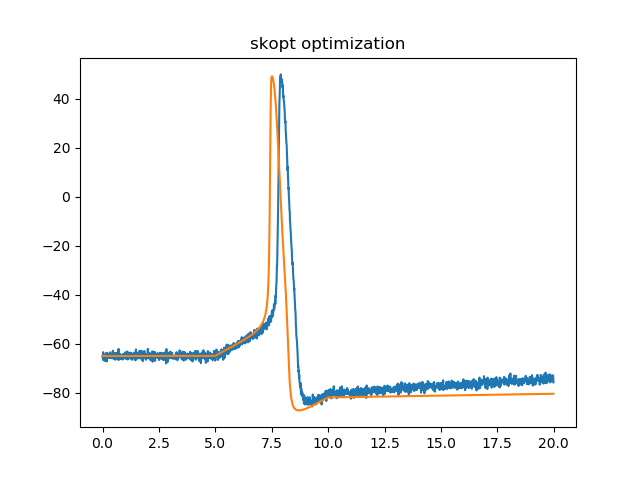
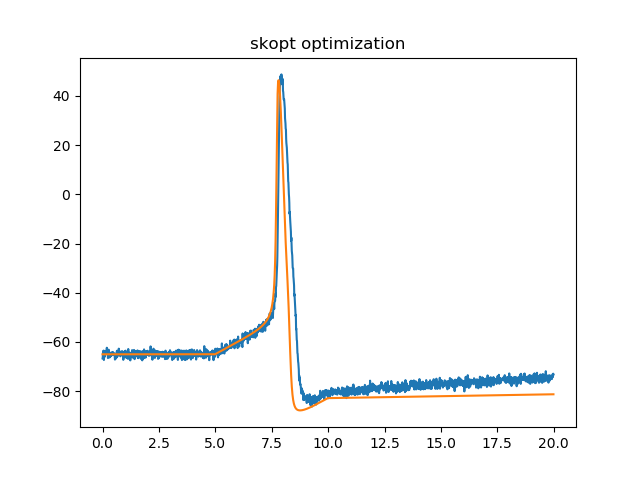
kwds optimizer, n_rounds added to fit_traces_asktell

diff --git a/brian2tools/modelfitting/modelfitting_asktell.py b/brian2tools/modelfitting/modelfitting_asktell.py
@@ -1,28 +1,29 @@
-from numpy import mean, ones, array, shape, where
+from numpy import mean, ones, array, where
 from brian2.equations.equations import (DIFFERENTIAL_EQUATION, Equations,
                                         SingleEquation, PARAMETER)
 from brian2.input import TimedArray
-from brian2 import NeuronGroup, StateMonitor, store, restore, run, defaultclock, second, Quantity
+from brian2 import NeuronGroup, store, restore, run, defaultclock, second
 from brian2.stateupdaters.base import StateUpdateMethod
 
 
-__all__=['fit_traces_ask_tell']
+__all__ = ['fit_traces_ask_tell']
 
 
 def fit_traces_ask_tell(model=None,
-               input_var=None,
-               input = None,
-               output_var = None,
-               output = None,
-               dt = None,
-               maxiter = None,
-               t_start = 0*second,
-               method = ('linear', 'exponential_euler', 'euler'),
-               optimizer=None,
-               method_opt='DE',
-               n_samples=10,
-               n_rounds=1,
-               **params):
+                        input_var=None,
+                        input=None,
+                        output_var=None,
+                        output=None,
+                        dt=None,
+                        maxiter=None,
+                        t_start=0*second,
+                        method=('linear', 'exponential_euler', 'euler'),
+                        optimizer=None,
+                        method_opt='DE',
+                        n_samples=10,
+                        n_rounds=1,
+                        kwds_opt={},
+                        **params):
     '''
     Creates an interface for evaluation of parameters drawn by evolutionary
     algorithms (throough ask/tell interfaces).
@@ -56,43 +57,41 @@ def fit_traces_ask_tell(model=None,
 
     TODO:
         -tolerance
-        -maximum populationte
+
     Returns
     -------
     Errors array for each set of parameters (RMS).
     '''
 
-
     parameter_names = model.parameter_names
 
     for param in params.keys():
         if (param not in model.parameter_names):
-            raise Exception("Parameter %s must be defined as a parameter in the model" % param)
+            raise Exception("Parameter %s must be defined as a parameter in \
+                             the model" % param)
     for param in model.parameter_names:
         if (param not in params):
             raise Exception("Bounds must be set for parameter %s" % param)
 
     bounds = []
     for name in parameter_names:
-        bounds.append(params[name])# Check parameter names
+        bounds.append(params[name])     # Check parameter name
 
     # dt must be set
     if dt is None:
         raise Exception('dt (sampling frequency of the input) must be set')
     defaultclock.dt = dt
 
-
     # Check input variable
     if input_var not in model.identifiers:
         raise Exception("%s is not an identifier in the model" % input_var)
 
     Nsteps, Ntraces = input.shape
-    # Ntraces, Nsteps = input.shape
     duration = Nsteps*dt
     # Check output variable
     if output_var not in model.names:
         raise Exception("%s is not a model variable" % output_var)
-    if output.shape!=input.shape:
+    if output.shape != input.shape:
         raise Exception("Input and output must have the same size")
 
     # This only works because the equations are completely self-contained
@@ -113,10 +112,11 @@ def fit_traces_ask_tell(model=None,
     # Replace input variable by TimedArray
     input_traces = TimedArray(input, dt = dt)
     input_unit = input.dim
-    model = model + Equations(input_var + '= input_var(t,i % Ntraces) : '+ "% s" % repr(input_unit))
+    model = model + Equations(input_var + '= input_var(t,i % Ntraces) :\
+                              '+ "% s" % repr(input_unit))
 
     # Add criterion with TimedArray
-    output_traces = TimedArray(output, dt = dt)
+    output_traces = TimedArray(output, dt=dt)
     error_unit = output.dim**2
     model = model + Equations('total_error : %s' % repr(error_unit))
 
@@ -125,7 +125,7 @@ def fit_traces_ask_tell(model=None,
 
     popsize = n_samples
 
-    neurons = NeuronGroup(Ntraces * popsize, model, method = method)
+    neurons = NeuronGroup(Ntraces * popsize, model, method=method)
     neurons.namespace['input_var'] = input_traces
     neurons.namespace['output_var'] = output_traces
     neurons.namespace['t_start'] = t_start
@@ -150,30 +150,35 @@ def fit_traces_ask_tell(model=None,
 
         restore()
         neurons.set_states(d, units=False)
-        run(duration, namespace = {})
+        run(duration, namespace={})
 
         err = neurons.total_error/int((duration-t_start)/defaultclock.dt)
-        err = mean(err.reshape((popsize, Ntraces)),axis=1)
+        err = mean(err.reshape((popsize, Ntraces)), axis=1)
 
         return array(err)
 
     # set up the optimizer and get recommendation
-    optim = optimizer(method=method_opt, parameter_names=parameter_names, bounds=bounds)
+    optim = optimizer(method=method_opt, parameter_names=parameter_names,
+                      bounds=bounds, **kwds_opt)
 
-    # TODO: for _ in n_rounds
-    parameters = optim.ask(n_samples=n_samples)
+    for _ in range(n_rounds):
+        parameters = optim.ask(n_samples=n_samples)
+        errors = calc_error(parameters)
+        optim.tell(parameters, errors)
+        res = optim.recommend()
 
-    errors = calc_error(parameters)
-    optim.tell(parameters, errors)
-    res = optim.recommend()
 
-    # create output variables
-    resdict = dict()
-    for name, value in zip(parameter_names, res):
-        resdict[name] = value
+        # create output variables
+        resdict = dict()
+        for name, value in zip(parameter_names, res):
+            resdict[name] = value
 
-    index_param = where(array(parameters) == array(res))
-    ii = index_param[0]
-    error = errors[ii][0]
+        index_param = where(array(parameters) == array(res))
+
+        ii = index_param[0]
+        error = errors[ii][0]
+
+        # TODO: add feedback and tolerance
+        # print(resdict, error)
 
     return resdict, error

diff --git a/brian2tools/modelfitting/optimizer.py b/brian2tools/modelfitting/optimizer.py
@@ -48,9 +48,15 @@ class NevergradOptimizer(Optimizer):
     method : (str), optional
         The optimization method. By default differential evolution, can be
         chosen from any method in Nevergrad registry
+
+    TODO:
+    budget: int/None
+        number of allowed evaluations
+    num_workers: int
+        number of evaluations which will be run in parallel at once
     """
 
-    def __init__(self,  parameter_names, bounds, method='DE'):
+    def __init__(self,  parameter_names, bounds, method='DE', popsize=30, budget=300, **kwds):
         super(Optimizer, self).__init__()
 
         if not (len(parameter_names) == shape(bounds)[0]):
@@ -61,7 +67,6 @@ class NevergradOptimizer(Optimizer):
         if method not in list(registry.keys()):
             raise AssertionError("Unknown to Nevergrad optimization method:"+ method)
 
-
         instruments = []
         for i, name in enumerate(parameter_names):
             vars()[name] = inst.var.Array(1).bounded(*bounds[i]).asscalar()
@@ -69,7 +74,10 @@ class NevergradOptimizer(Optimizer):
 
         self.instrum = inst.Instrumentation(*instruments)
         self.optim = optimizerlib.registry[method](instrumentation=self.instrum,
-                                                   budget=10000)
+                                                   budget=budget, **kwds)
+
+
+        self.optim._llambda = popsize  # TODO: more elegant way
 
     def ask(self, n_samples):
         self.candidates, parameters = [], []
@@ -108,8 +116,12 @@ class SkoptOptimizer(Optimizer):
     method : (str), optional
         The optimization method. Possibilities: "GP", "RF", "ET", "GBRT" or
         sklearn regressor, default="GP"
+
+    TODO:
+    n_calls [int, default=100]:
+        Number of calls to `func`.
     """
-    def __init__(self,  parameter_names, bounds, method='GP'):
+    def __init__(self,  parameter_names, bounds, method='GP', **kwds):
         super(Optimizer, self).__init__()
 
         if not (len(parameter_names) == shape(bounds)[0]):
@@ -131,7 +143,8 @@ class SkoptOptimizer(Optimizer):
         self.optim = skoptOptimizer(
             dimensions=instruments,
             random_state=1,
-            base_estimator=method
+            base_estimator=method,
+            **kwds
         )
 
     def ask(self, n_samples):

diff --git a/brian2tools/tests/test_modelfitting_asktell.py b/brian2tools/tests/test_modelfitting_asktell.py
@@ -1,0 +1,35 @@
+'''
+Test the modelfitting module
+'''
+from brian2 import zeros, Equations
+from brian2 import nS, mV, volt, ms
+from brian2tools import fit_traces_ask_tell, NevergradOptimizer, SkoptOptimizer
+
+
+def test_import():
+    fit_traces_ask_tell
+
+def test_fit_traces():
+    # Create voltage traces for an activation experiment
+    input_traces = zeros((10,5))*volt
+    for i in range(5):
+        input_traces[5:,i]=i*10*mV
+
+    # Create target current traces
+    output_traces = 10*nS*input_traces
+    model = Equations('''
+    I = g*(v-E) : amp
+    g : siemens (constant)
+    E : volt (constant)
+    ''')
+    res, error = fit_traces_ask_tell(model=model, input_var='v', output_var='I',
+                                    input=input_traces, output=output_traces, dt=0.1*ms,
+                                    g=[1*nS, 30*nS], E=[-20*mV,100*mV],
+                                    optimizer=NevergradOptimizer, method_opt='DE')
+
+    res, error = fit_traces_ask_tell(model=model, input_var='v', output_var='I',
+                                    input=input_traces, output=output_traces, dt=0.1*ms,
+                                    g=[1*nS, 30*nS], E=[-20*mV,100*mV],
+                                    optimizer=SkoptOptimizer, method_opt='gp')
+
+# TODO: test different methods, test **kwds

diff --git a/examples/hh_nevergrad.py b/examples/hh_nevergrad.py
@@ -1,6 +1,7 @@
 from brian2 import *
 from brian2tools import *
 
+
 prefs.codegen.target = 'cython'  # weave is not multiprocess-safe!
 
 # Parameters
@@ -68,13 +69,16 @@ gl   : siemens (constant)
 Cm=1*ufarad*cm**-2 * area, El=-65*mV, EK=-90*mV, ENa=50*mV, VT=-63*mV)
 
 
+
+
 # pass parameters to the NeuronGroup
-res, error = fit_traces_ask_tell(model=eqs, input_var='I', output_var='v',\
+res, error = fit_traces_ask_tell(model=eqs, input_var='I', output_var='v',
                                  input=inp_trace * nA, output=out_trace*mV, dt=dt,
-                                 gl=[1e-6*siemens*cm**-2 * area, 1e-5*siemens*cm**-2 * area],
+                                 gl=[1e-8*siemens*cm**-2 * area, 1e-4*siemens*cm**-2 * area],
                                  g_na=[1*msiemens*cm**-2 * area, 200*msiemens*cm**-2 * area],
                                  g_kd=[1*msiemens*cm**-2 * area, 100*msiemens*cm**-2 * area],
-                                 optimizer=NevergradOptimizer, method_opt='DE')
+                                 optimizer=NevergradOptimizer, method_opt='DE',
+                                 n_rounds=5, n_samples=50, kwds_opt={'popsize': 50})
 
 
 # give information to the optimizer

diff --git a/examples/modelfitting_nevergrad.py b/examples/modelfitting_nevergrad.py
@@ -19,6 +19,7 @@ model = Equations('''
 res, error = fit_traces_ask_tell(model=model, input_var='v', output_var='I',
                                  input=input_traces, output=output_traces, dt=0.1*ms,
                                  g=[1*nS, 30*nS], E=[-20*mV,100*mV],
-                                 optimizer=NevergradOptimizer, method_opt='DE')
+                                 optimizer=NevergradOptimizer, method_opt='DE',
+                                 kwds_opt={'popsize':10})
 
 print(res, error)
